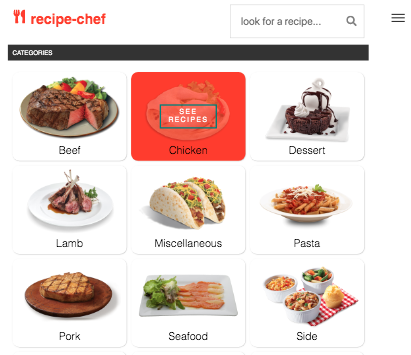
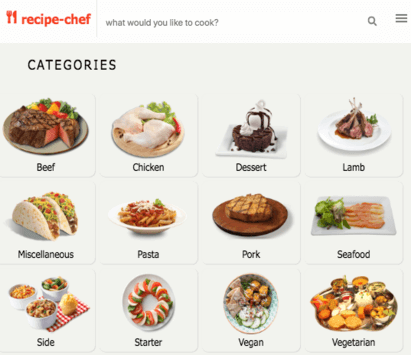
update project data

diff --git a/src/components/layout.css b/src/components/layout.css
@@ -1007,8 +1007,8 @@ color:#41B883;
     margin: 6rem auto 3rem auto;
     display: -ms-grid;
     display: grid;
-    grid-template-columns: repeat(auto-fit, minmax(300px, 1fr));
-    grid-gap:1rem;
+    grid-template-columns: repeat(auto-fit, minmax(400px, 1fr));
+    grid-gap: 1rem;
 }
 
 
@@ -1107,8 +1107,15 @@ color: #FF3E55;
   }
  .template--grid{
     grid-template-columns: repeat(auto-fit, minmax(300px, 1fr));
-    margin-bottom: 2rem;
+
+    padding: 4rem 0;
     font-size: 1.2rem;
+    text-align: right;
+  }
+
+  .template--grid > div > h3{
+    text-transform: uppercase;
+    font-size: initial;
   }
 
  .template--grid li{
@@ -1118,6 +1125,7 @@ color: #FF3E55;
   line-height: 38px;
   color: #F7F6F5;
   font-size: 1.5rem;
+  
   }
  
   

diff --git a/src/markdown/react-tv.md b/src/markdown/react-tv.md
@@ -1,5 +1,5 @@
 ---
-path: /work/reacttv
+path: /work/MBd
 title: MBd
 github: https://github.com/FarahMint/MBd
 preview: https://rendezvous-9f567.firebaseapp.com/
@@ -9,13 +9,23 @@ date: 2020-02-10
 ![react-tv-screens](../images/react-tv-screens.png)
    
 <div class="template--grid">
-<p> Movies recommendation displays users research and allows users to select and save  movies they are interested in. </p>
 
-- React.js
-- React Context API 
-- React-router
-- MovieDB API
-- Firebase 
+<div>
+<h3>description</h3>
+<p> Movies recommendation displays users research and allows users to select and save  movies they are interested in. </p>
+</div>
+
+<div>
+<h3>stack</h3>
+<ul>
+<li>React.js</li>
+<li>React Context API </li>
+<li>React-router</li>
+<li>MovieDB API</li>
+<li>Firebase</li>
+</ul>
+</div>
+  
 
   
 </div>

diff --git a/src/markdown/recipe-chef.md b/src/markdown/recipe-chef.md
@@ -6,20 +6,27 @@ preview: https://recipeschef.netlify.com/
 date: 2020-02-01
 ---
 
- ![recipechef](../images/recipechef.png)
+ ![recipe-chef-screens](../images/recipe-chef-screens.png)
 
 <div class="template--grid">
+
+
+<div>
+<h3>description</h3>
 <p> Recipes recommendation with filtering and search features, plus it allows users to select and save favorite recipe.
 </p>
-
-
-- React.js
-- Context API 
-- React-Router 
-- Typescript 
-- themealdb API 
-- LocalStorage
-  
+</div>
+<div>
+<h3>stack</h3>
+<ul>
+<li>React.js</li>
+<li>Context API </li>
+<li>React-Router</li>
+<li>Typescript</li>
+<li>TheMealDB API</li>
+<li>Local Storage API</li>
+</ul>
+</div>
 </div>
 
 

diff --git a/src/markdown/spoticlone.md b/src/markdown/spoticlone.md
@@ -8,11 +8,21 @@ date: 2019-05-01
 ![spoticlone-screens](../images/spoticlone-screens.png)
 
 <div class="template--grid">
-<p>Music recommendation web app fetches data from iTunes API with search and filtering functionalities and allows users to select and save albums they like. </p>
 
-- Vue.Js
-- Vuex
-- iTunes Api
-- LocalStorage API
-  
+
+<div>
+<h3>description</h3>
+<p>Music recommendation web app fetches data from iTunes API with search and filtering functionalities and allows users to select and save albums they like. </p>
+</div>
+
+<div>
+<h3>stack</h3>
+<ul>
+<li>Vue.Js</li>
+<li>Vuex</li>
+<li>iTunes Api</li>
+<li>LocalStorage API</li>
+</ul>
+</div>
+
 </div>

diff --git a/src/markdown/foodyed.md b/src/markdown/foodyed.md
@@ -10,12 +10,18 @@ date: 2019-03-01
 ![food-square-screens](../images/food-square-screens.png)
 
 <div class="template--grid">
+<div>
+<h3>description</h3>
 <p> Restaurant recommendation with filtering and search feature as well as location. </p>
+</div>
+<div>
+<h3>stack</h3>
+<ul>
+<li>react</li>
+<li>Food Square API</li>
+<li>Google Maps API</li>
 
- - react
- - Food Square API 
- - Google Maps API
-  
+</div>
 </div>
 
  
